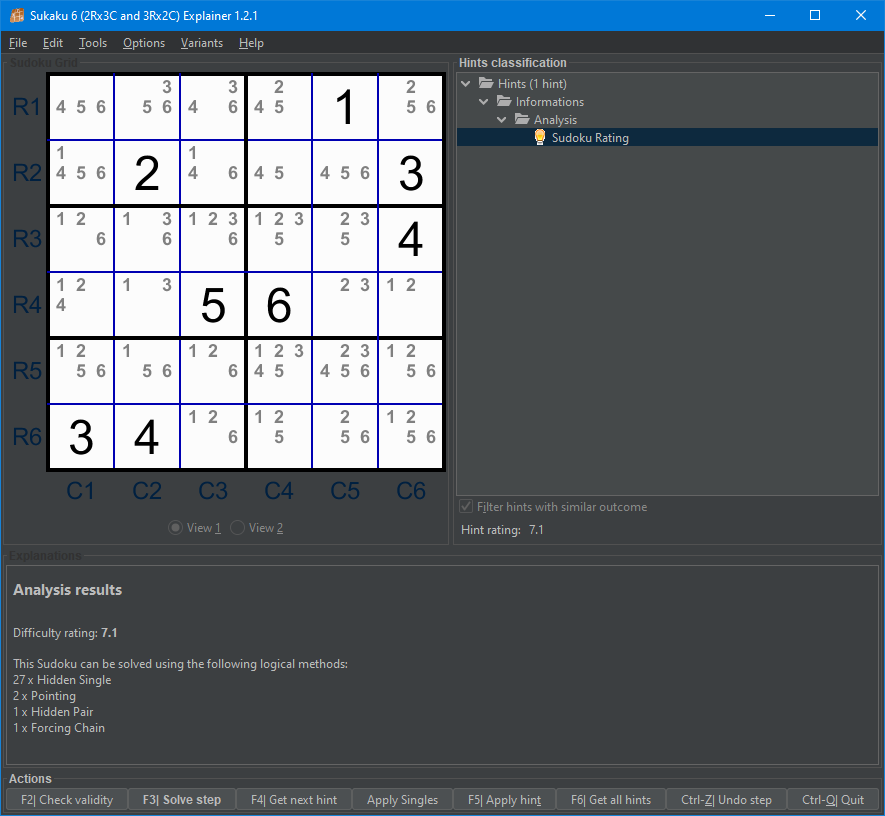
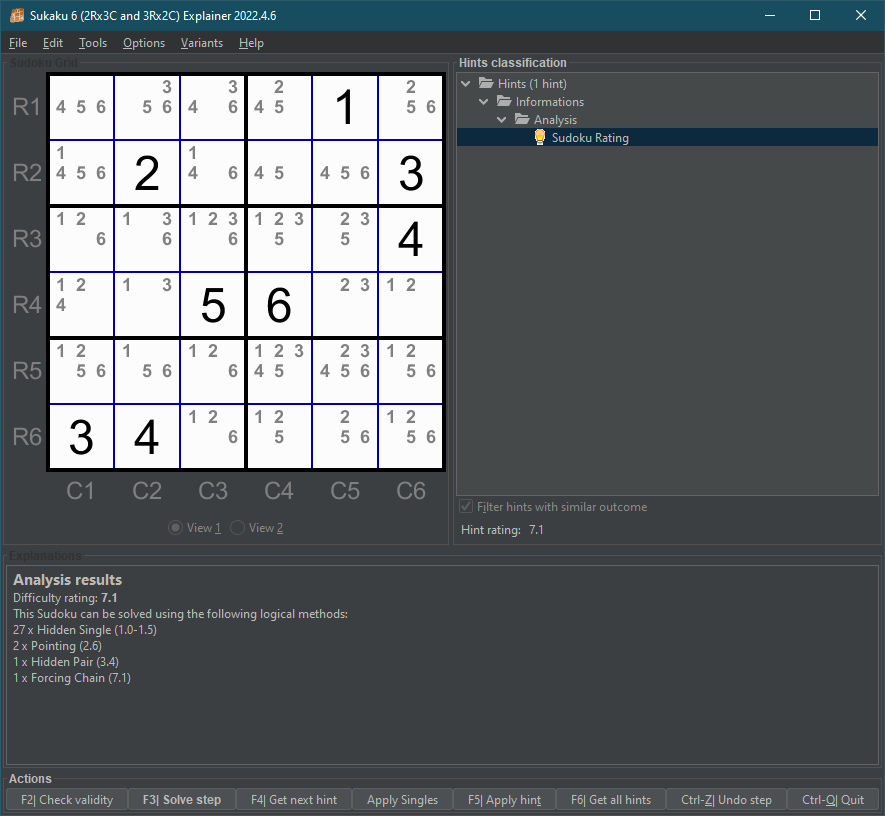
various small changes

diff --git a/diuf/sudoku/gui/SudokuFrame.java b/diuf/sudoku/gui/SudokuFrame.java
@@ -482,8 +482,7 @@ public class SudokuFrame extends JFrame implements Asker {
                             javax.swing.BorderFactory.createTitledBorder(null, "Sudoku Grid",
                             javax.swing.border.TitledBorder.DEFAULT_JUSTIFICATION,
                             javax.swing.border.TitledBorder.DEFAULT_POSITION,
-                            new java.awt.Font("Dialog", java.awt.Font.BOLD, 12),
-                            new java.awt.Color(51, 51, 51)));
+                            new java.awt.Font("Dialog", java.awt.Font.BOLD, 12), null));
             sudokuContainer.add(getSudokuPanel(), java.awt.BorderLayout.CENTER);
             sudokuContainer.add(getViewSelectionPanel(), java.awt.BorderLayout.SOUTH);
         }
@@ -498,8 +497,7 @@ public class SudokuFrame extends JFrame implements Asker {
                             javax.swing.BorderFactory.createTitledBorder(null, "Explanations",
                             javax.swing.border.TitledBorder.DEFAULT_JUSTIFICATION,
                             javax.swing.border.TitledBorder.DEFAULT_POSITION,
-                            new java.awt.Font("Dialog", java.awt.Font.BOLD, 12),
-                            new java.awt.Color(51, 51, 51)));
+                            new java.awt.Font("Dialog", java.awt.Font.BOLD, 12), null));
             hintDetailContainer.add(getHintsDetailScrollPane(), BorderLayout.CENTER);
         }
         return hintDetailContainer;
@@ -549,12 +547,11 @@ public class SudokuFrame extends JFrame implements Asker {
 
             buttonsPane = new JPanel();
             buttonsPane.setLayout(new GridBagLayout());
-            buttonsPane.setBorder(javax.swing.BorderFactory.createTitledBorder(
-                    null, "Actions",
+            buttonsPane.setBorder(
+                    javax.swing.BorderFactory.createTitledBorder( null, "Actions",
                     javax.swing.border.TitledBorder.DEFAULT_JUSTIFICATION,
                     javax.swing.border.TitledBorder.DEFAULT_POSITION,
                     new java.awt.Font("Dialog", java.awt.Font.BOLD, 12), null));
-
 
             buttonsPane.add(getBtnCheckValidity(),   gridBagConstraints0);
             buttonsPane.add(getBtnApplyHintAndGet(), gridBagConstraints1);
@@ -728,12 +725,11 @@ public class SudokuFrame extends JFrame implements Asker {
         if (hintsTreePanel == null) {
             hintsTreePanel = new JPanel();
             hintsTreePanel.setLayout(new BorderLayout());
-            hintsTreePanel.setBorder(javax.swing.BorderFactory.createTitledBorder(
-                    null, "Hints classification",
+            hintsTreePanel.setBorder(
+                    javax.swing.BorderFactory.createTitledBorder(null, "Hints classification",
                     javax.swing.border.TitledBorder.DEFAULT_JUSTIFICATION,
                     javax.swing.border.TitledBorder.DEFAULT_POSITION,
                     new java.awt.Font("Dialog", java.awt.Font.BOLD, 12), null));
-
             hintsTreePanel.add(getHintsTreeScrollPane(), java.awt.BorderLayout.CENTER);
             hintsTreePanel.add(getHintsSouthPanel(), java.awt.BorderLayout.SOUTH);
         }

diff --git a/diuf/sudoku/solver/Solver.java b/diuf/sudoku/solver/Solver.java
@@ -603,7 +603,7 @@ public class Solver {
             diamond = 0.0;
             while (!isSolved()) {
                 SingleHintAccumulator accu = new SingleHintAccumulator();
-                long tt = System.currentTimeMillis(); long hh, mm, ss, ms;
+        //      long tt = System.currentTimeMillis(); long hh, mm, ss, ms;
                 try {
                     for (HintProducer producer : directHintProducers)
                         producer.getHints(grid, accu);
@@ -618,7 +618,7 @@ public class Solver {
                     for (IndirectHintProducer producer : experimentalHintProducers)
                         producer.getHints(grid, accu);
                 } catch (InterruptedException willHappen) {}
-                tt = System.currentTimeMillis() - tt;
+        //      tt = System.currentTimeMillis() - tt;
                 Hint hint = accu.getHint();
                 if (hint == null) {
                     difficulty = 20.0;
@@ -637,14 +637,14 @@ public class Solver {
                     s += (n==0)?".":n;
                 }
                 s += " ";
-                ms= tt % 1000; tt = tt / 1000;
-                ss= tt % 60;   tt = tt / 60;
-                mm= tt % 60;   hh = tt / 60;
-            //  if ( hh < 10 ) { s += "0"; } s += "" + hh + ":";
-                if ( mm < 10 ) { s += "0"; } s += "" + mm + ":";
-                if ( ss < 10 ) { s += "0"; } s += "" + ss + ".";
-                if ( ms < 100) { s += "0"; }
-                if ( ms < 10 ) { s += "0"; } s += "" + ms + " ";
+        //      ms= tt % 1000; tt = tt / 1000;
+        //      ss= tt % 60;   tt = tt / 60;
+        //      mm= tt % 60;   hh = tt / 60;
+        //  //  if ( hh < 10 ) { s += "0"; } s += "" + hh + ":";
+        //      if ( mm < 10 ) { s += "0"; } s += "" + mm + ":";
+        //      if ( ss < 10 ) { s += "0"; } s += "" + ss + ".";
+        //      if ( ms < 100) { s += "0"; }
+        //      if ( ms < 10 ) { s += "0"; } s += "" + ms + " ";
                 int w = (int)((ruleDiff + 0.05) * 10);
                 int p = w % 10;
                 w /= 10;

diff --git a/diuf/sudoku/solver/rules/NakedSingle.java b/diuf/sudoku/solver/rules/NakedSingle.java
@@ -27,13 +27,15 @@ public class NakedSingle implements DirectHintProducer {
             // Iterate on cells
             for (int index = 0; index < 36; index++) {
                 Cell cell = grid.getCell(index%6,index/6);
+              if ( cell.getValue() == 0 ) {
                 // Get the cell's potential values
                 BitSet potentialValues = cell.getPotentialValues();
                 if (potentialValues.cardinality() == 1) {
                     // One potential value -> solution found
-                    int uniqueValue = potentialValues.nextSetBit(0);
-                    accu.add(new NakedSingleHint(this, null, cell, uniqueValue));
+                //  int uniqueValue = potentialValues.nextSetBit(0);
+                    accu.add(new NakedSingleHint(this, null, cell, potentialValues.nextSetBit(0)));
                 }
+              }
             }
 
     }

diff --git a/diuf/sudoku/gui/SudokuPanel.java b/diuf/sudoku/gui/SudokuPanel.java
@@ -258,7 +258,7 @@ public class SudokuPanel extends JPanel {
     private Cell getCellAt(int x, int y) {
         int cx = (x - LEGEND_GAP_SIZE) / CELL_OUTER_SIZE;
         int cy = (y - GRID_GAP_SIZE) / CELL_OUTER_SIZE;
-        if (cx < 0 || cx >= 6 || cy < 0 || cy >= 6)
+        if (x < LEGEND_GAP_SIZE || cx < 0 || cx >= 6 || cy < 0 || cy >= 6)
             return null;
         return grid.getCell(cx, cy);
     }
@@ -267,7 +267,7 @@ public class SudokuPanel extends JPanel {
         // Get cell's corner
         int cx = (x - LEGEND_GAP_SIZE) / CELL_OUTER_SIZE;
         int cy = (y - GRID_GAP_SIZE) / CELL_OUTER_SIZE;
-        if (cx < 0 || cx >= 6 || cy < 0 || cy >= 6)
+        if (x < LEGEND_GAP_SIZE || cx < 0 || cx >= 6 || cy < 0 || cy >= 6)
             return 0;
         Cell cell = grid.getCell(cx, cy);
         if (!cell.equals(this.selectedCell))

diff --git a/diuf/sudoku/Settings.java b/diuf/sudoku/Settings.java
@@ -28,8 +28,8 @@ import javax.swing.UIManager;
 public class Settings {
 
     public final static int VERSION  = 2022;
-    public final static int REVISION = 1;
-    public final static int SUBREV   = 11;
+    public final static int REVISION = 4;
+    public final static int SUBREV   = 12;
 
     private static Settings instance = null;
 
